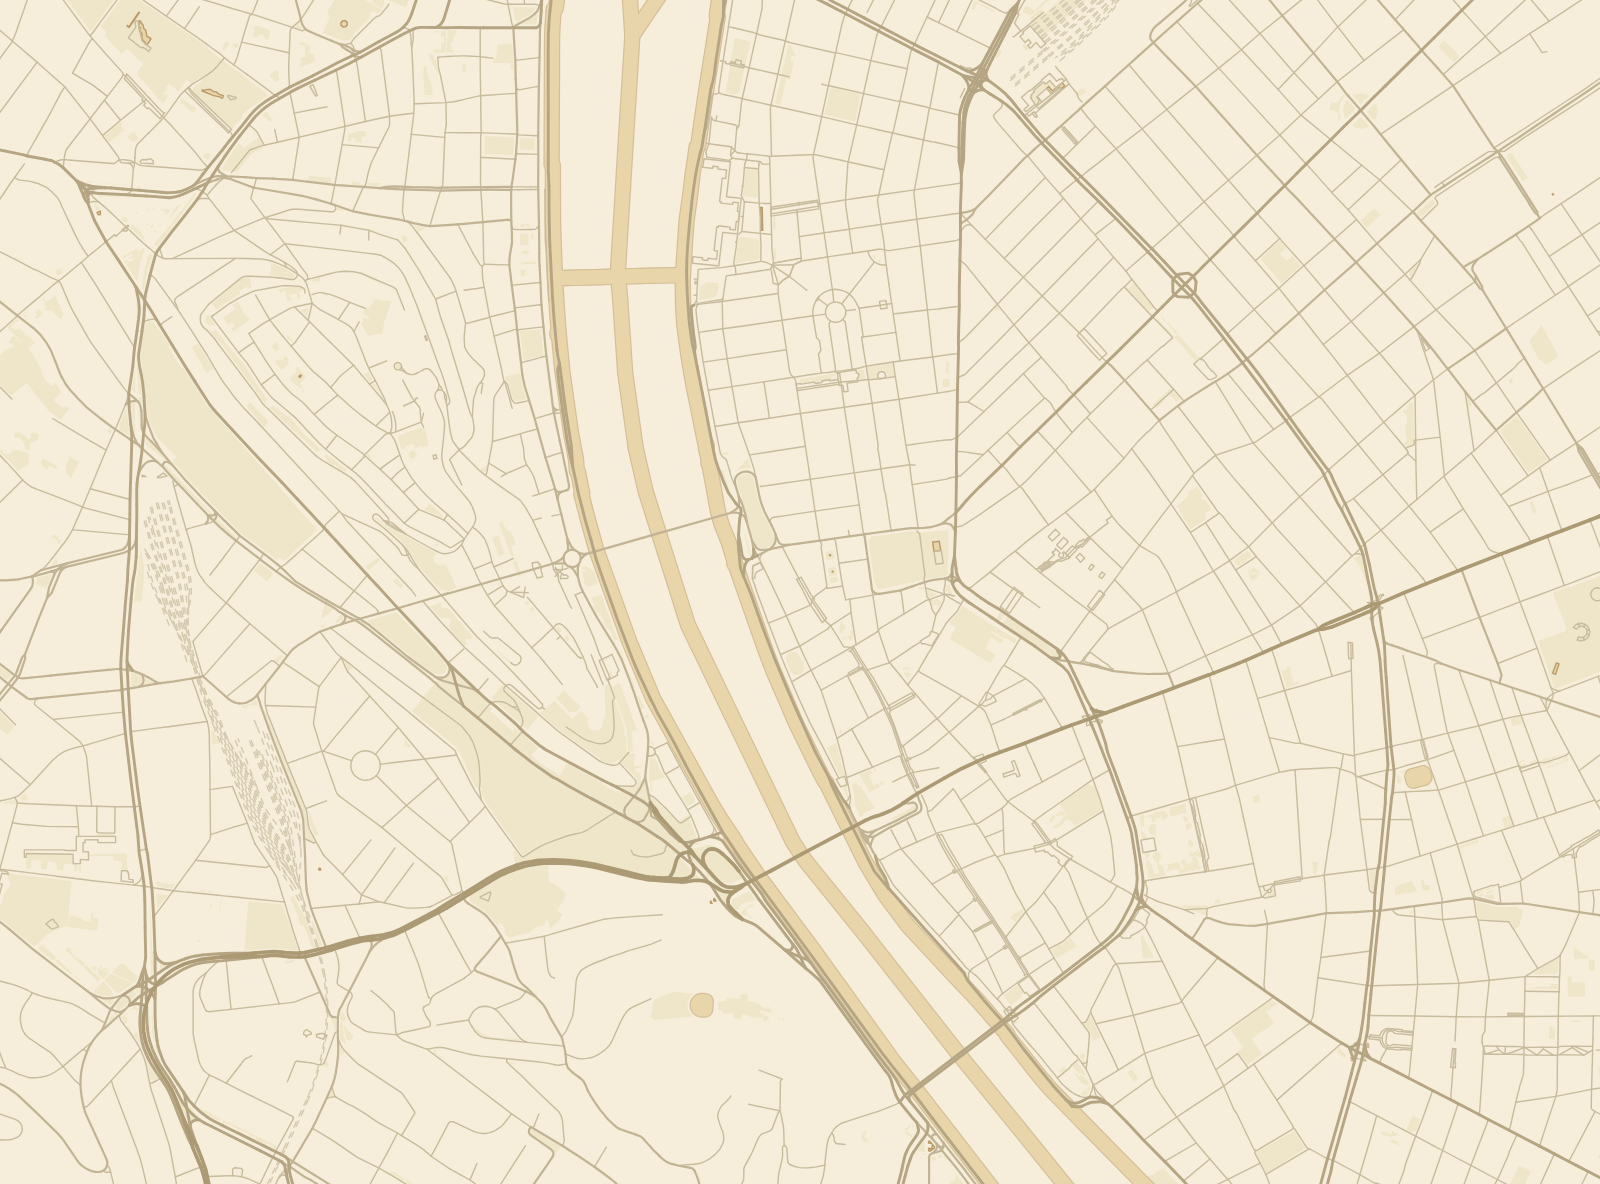
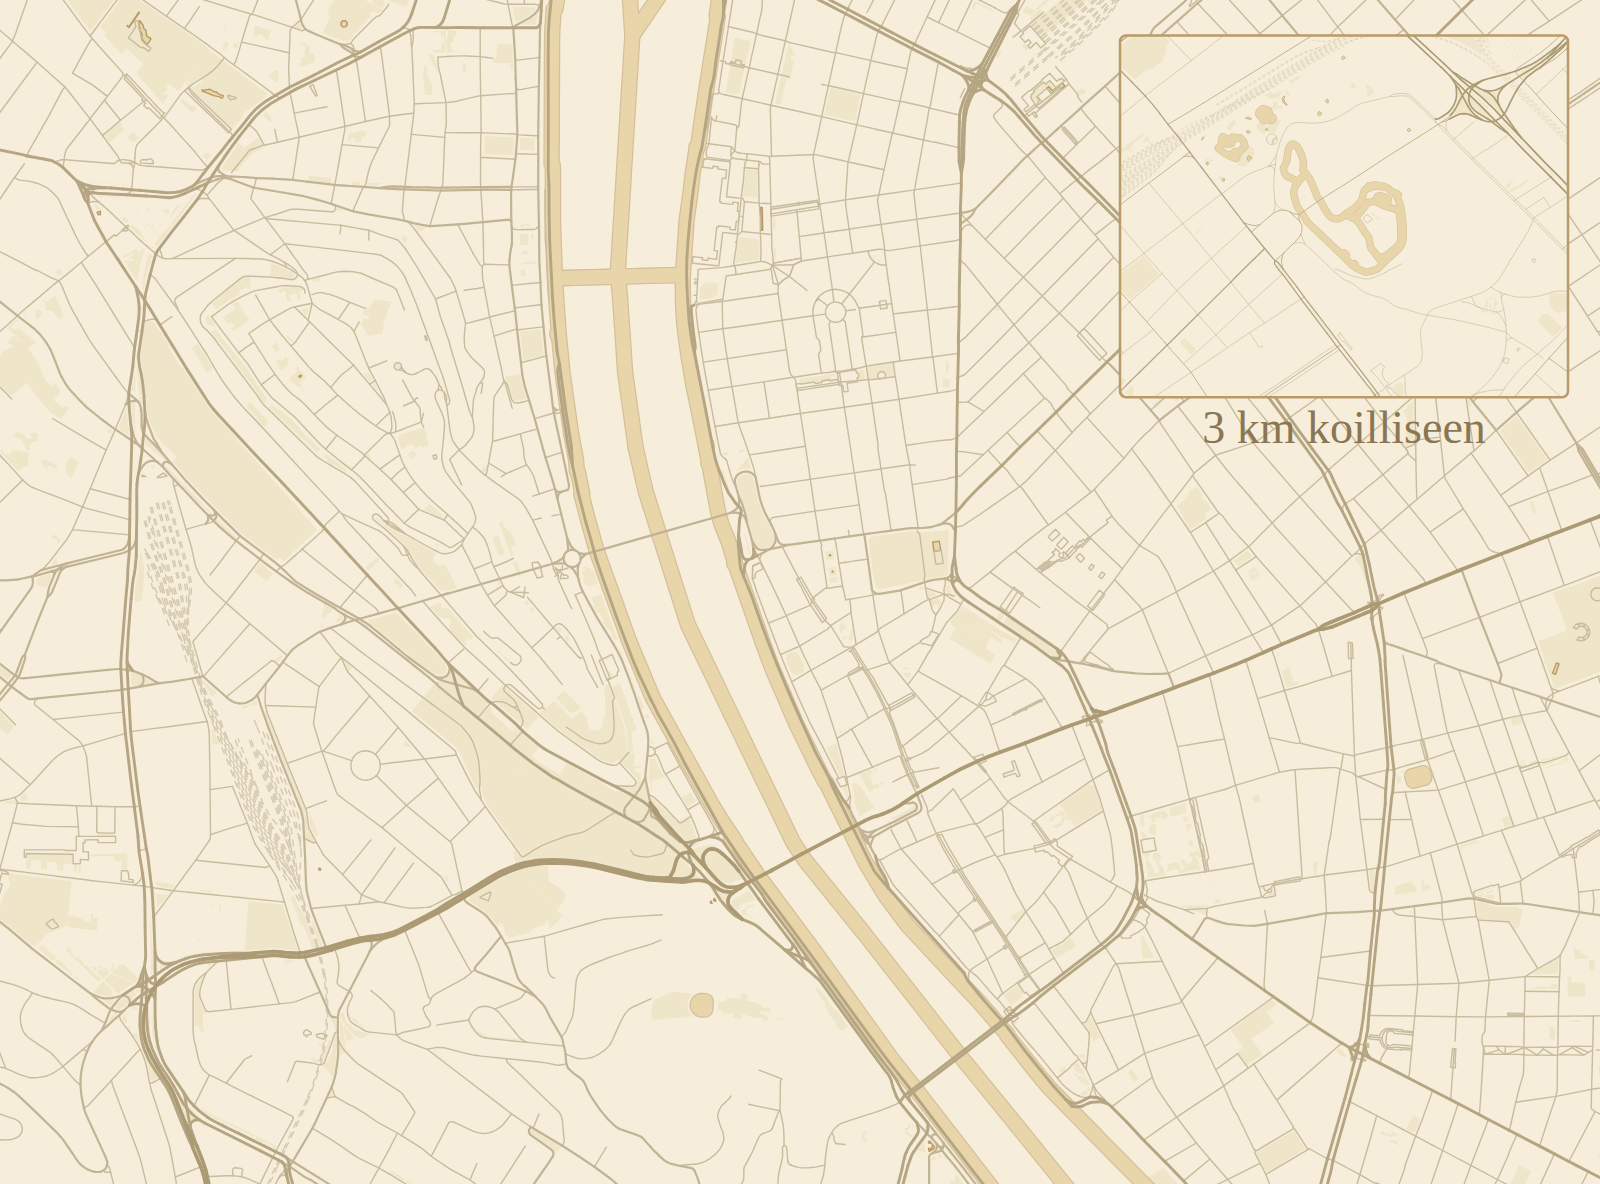
Kainalokarttatuki ja Schönbrunn + Sankarien aukio takaisin (kesken)
Omistajan ratkaisu 9.8.2026: "Liian laajoissa kartoissa voisi tehdä
pienen kainalon kartan siihen kohtaa missä ei ole tärkeää ja laittaa
minikartan kaukokohteen kera siihen."

TYÖKALU. Kainalo on oma tiukka rajaus kaukokohteen ympäriltä,
piirrettynä pääkuvan tyhjään kulmaan omine kehyksineen ja
suuntamerkintöineen. Piirtokoodi jaettiin kolmeen osaan (kerrosten
kokoaminen, kerrosten kuvaus, kainalon sijoitus), jotta sama koodi
piirtää sekä pääkartan että kainalon — kainalossa vain
koordinaattimuunnos ja viivanleveydet ovat eri.

PELI. karttapiste() tunnistaa kainalokohteen KOHTEEN OMISTA
KOORDINAATEISTA eikä erillisestä kentästä. Se pitää datan
yksinkertaisena ja — tärkeämpää — tarkoittaa ettei ui.js:ään tarvinnut
koskea lainkaan: piste asemoituu ja on napautettava aivan kuten
pääkartan pisteet, koska se kulkee saman funktion läpi.

Kaksi asiaa mitattiin eikä arvattu:

- Kainalon KORKEUTTA ei kirjoiteta käsin vaan työkalu laskee sen
  kainalon omasta kuvasuhteesta ja tulostaa peliin liitettäväksi.
  Yksi laskenta, kaksi käyttäjää — muuten numero irtoaisi kartasta.
  Ensimmäinen kaavani oli väärä (jaoin molemmilla kuvasuhteilla) ja
  jäi kiinni käsinlaskennassa ennen ensimmäistäkään ajoa.
- Suuntamerkinnän KOKO. Lehti näyttää kuvan palstan levyisenä eli
  puhelimessa noin 360 pikselinä, joten 1600 pikselin kuva kutistuu
  suhteessa 0,22. Ensimmäinen versio käytti kokoa W/80 = 20 px, mikä
  on ruudulla 4,5 px — ei pieni vaan näkymätön. Nyt W/35.
[…]

Changed region(s): [[0.6875, 0.0312, 1.0, 0.375], [0.9062, 0.2188, 0.9375, 0.25], [0.875, 0.0312, 0.9062, 0.0625]]

diff --git a/js/packs/maakartat.js b/js/packs/maakartat.js
@@ -1716,6 +1716,17 @@ export const KAUPUNKIKARTAT = {
     polku: 'assets/kartat/budapest-keskusta.png',
     lahde: '© OpenStreetMap-tekijät (ODbL)',
     rajat: { pohjoinen: 47.5125, etela: 47.4825, lansi: 19.019, ita: 19.079 },
+    /*
+     * Kainalokartta Sankarien aukiosta. Se on lehden kansikuva mutta
+     * 3 km koilliseen, ja päärajaukseen ottaminen olisi työntänyt
+     * Tonavan kuvan laitaan. Ruutu on oikeassa ylänurkassa, jossa ei
+     * ole numeroituja kohteita, ja se näyttää samalla Városligetin.
+     * Korkeus on työkalun laskema; älä muuta sitä käsin.
+     */
+    kainalot: [
+      { rajat: { pohjoinen: 47.5215, etela: 47.5095, lansi: 19.07, ita: 19.092 },
+        x: 70, y: 3, leveys: 28, korkeus: 30.56 },
+    ],
     esittely: 'Budapest seisoo siinä, missä Budan kalkkikivikukkulat '
       + 'loppuvat ja Unkarin suuri tasanko alkaa. Raja kulkee Tonavaa '
       + 'pitkin: läntisellä rannalla maa nousee jyrkästi, itäisellä se '
@@ -1746,6 +1757,8 @@ export const KAUPUNKIKARTAT = {
       { nimi: 'Gellértinvuori', lat: 47.4869, lon: 19.0446, wiki: 'Gellértinvuori' },
       { nimi: 'Pyhän Tapanin kirkko', lat: 47.5008, lon: 19.054, wiki: 'Pyhän Tapanin kirkko (Budapest)' },
       { nimi: 'Suuri kauppahalli', lat: 47.4866, lon: 19.059 },
+      // Kainalossa oikeassa ylänurkassa.
+      { nimi: 'Sankarien aukio', lat: 47.5153, lon: 19.0781, wiki: 'Sankarien aukio (Budapest)' },
     ],
   },
   praha: {
@@ -1790,6 +1803,18 @@ export const KAUPUNKIKARTAT = {
     polku: 'assets/kartat/wien-keskusta.png',
     lahde: '© OpenStreetMap-tekijät (ODbL)',
     rajat: { pohjoinen: 48.22, etela: 48.188, lansi: 16.34, ita: 16.404 },
+    /*
+     * Kainalokartta Schönbrunnista. Palatsi on lehden kansikuva mutta
+     * 4 km lounaaseen, ja päärajaukseen ottaminen olisi vaatinut 7,2
+     * km leveän kuvan — Ring, koko kuvan juoni, olisi kutistunut
+     * täpläksi. Ruutu on vasemmassa alanurkassa, jossa ei ole yhtään
+     * numeroitua kohdetta. Korkeus on työkalun laskema; älä muuta sitä
+     * käsin, tai numero irtoaa kartasta.
+     */
+    kainalot: [
+      { rajat: { pohjoinen: 48.191, etela: 48.178, lansi: 16.303, ita: 16.325 },
+        x: 2, y: 56, leveys: 30, korkeus: 35.44 },
+    ],
     esittely: 'Wien seisoo kohdassa, jossa Tonava tulee ulos vuorten '
       + 'välistä. Lännessä nousee Wienerwald, Alppien viimeinen '
       + 'kukkulaselänne, ja idässä alkaa tasainen lakeus, joka jatkuu '
@@ -1825,6 +1850,9 @@ export const KAUPUNKIKARTAT = {
       { nimi: 'Stephansdom', lat: 48.2085, lon: 16.3731, wiki: 'Stephansdom' },
       { nimi: 'Belvedere', lat: 48.1915, lon: 16.3809, wiki: 'Belvedere' },
       { nimi: 'Jättiratas', lat: 48.2167, lon: 16.3959, wiki: 'Prater' },
+      // Kainalossa. Koordinaatti on päärajauksen ulkopuolella, ja
+      // karttapiste() sijoittaa sen minikarttaan sen perusteella.
+      { nimi: 'Schönbrunn', lat: 48.1845, lon: 16.3119, wiki: 'Schönbrunnin linna' },
     ],
   },
   kairo: {
@@ -2549,12 +2577,44 @@ function laeaPiste(laea, lat, lon) {
   };
 }
 
-/** Pisteen paikka kuvassa prosentteina (left/top). */
-export function karttapiste(kartta, lat, lon) {
-  if (kartta.projektio === 'laea') return laeaPiste(kartta.laea, lat, lon);
-  const { pohjoinen, etela, lansi, ita } = kartta.rajat;
+/** Suora prosenttiosuus rajoista — tasavälisen kartan perustapaus. */
+function suoraPiste(rajat, lat, lon) {
+  const { pohjoinen, etela, lansi, ita } = rajat;
   return {
     x: ((lon - lansi) / (ita - lansi)) * 100,
     y: ((pohjoinen - lat) / (pohjoinen - etela)) * 100,
   };
+}
+
+/**
+ * Pisteen paikka kuvassa prosentteina (left/top).
+ *
+ * KAINALOKARTAT (omistajan ratkaisu 9.8.2026). Kun lehdessä mainittu
+ * kohde on kilometrien päässä keskustasta, sitä ei oteta päärajaukseen
+ * — se levittäisi kuvan katupuuroksi — vaan piirretään omana pienenä
+ * minikarttana pääkuvan tyhjään kulmaan. Kainalon kohde numeroidaan
+ * samaan sarjaan, ja tämä funktio sijoittaa sen: ensin paikka kainalon
+ * omassa rajauksessa, sitten se skaalataan kainaloruutuun pääkuvassa.
+ *
+ * Kainalo tunnistetaan KOHTEEN OMISTA KOORDINAATEISTA eikä erillisestä
+ * kentästä. Se pitää datan yksinkertaisena (kohde on pelkkä lat/lon
+ * kuten muutkin) eikä vaadi muutosta piirtokoodiin — piste on siksi
+ * napautettava aivan kuten pääkartan pisteet. Ehto toimii, koska
+ * kainalon rajaus on aina päärajauksen ULKOPUOLELLA; jos joku joskus
+ * asettaa ne päällekkäin, kainalo voittaa ja piste menee väärään
+ * paikkaan. Älä siis tee päällekkäistä kainaloa.
+ */
+export function karttapiste(kartta, lat, lon) {
+  if (kartta.projektio === 'laea') return laeaPiste(kartta.laea, lat, lon);
+  for (const kainalo of kartta.kainalot ?? []) {
+    const r = kainalo.rajat;
+    if (lat <= r.pohjoinen && lat >= r.etela && lon >= r.lansi && lon <= r.ita) {
+      const sisa = suoraPiste(r, lat, lon);
+      return {
+        x: kainalo.x + (sisa.x / 100) * kainalo.leveys,
+        y: kainalo.y + (sisa.y / 100) * kainalo.korkeus,
+      };
+    }
+  }
+  return suoraPiste(kartta.rajat, lat, lon);
 }
